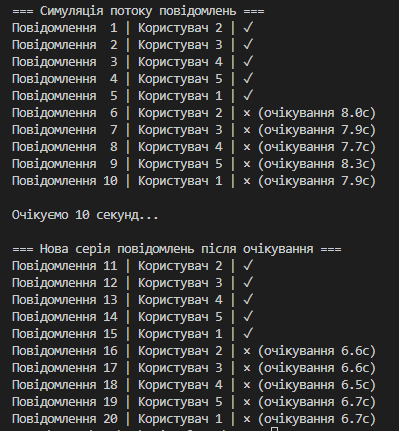
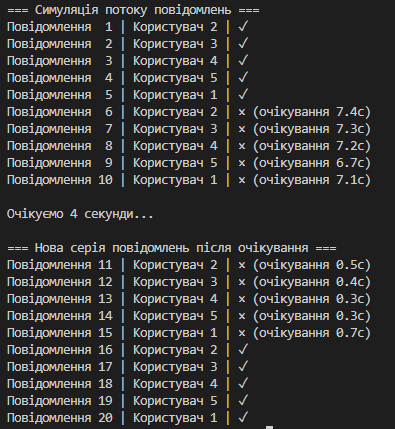
updates

Changed region(s): [[0.0, 0.5455, 0.9418, 1.0], [0.0, 0.0, 0.9418, 0.4545], [0.0, 0.4848, 0.3949, 0.5152]]

diff --git a/2_rate_limiter_throttling.py b/2_rate_limiter_throttling.py
@@ -22,8 +22,8 @@ def test_throttling_limiter():
         # Випадкова затримка між повідомленнями
         time.sleep(random.uniform(0.1, 1.0))
 
-    print("\nОчікуємо 10 секунд...")
-    time.sleep(10)
+    print("\nОчікуємо 4 секунди...")
+    time.sleep(4)
 
     print("\n=== Нова серія повідомлень після очікування ===")
     for message_id in range(11, 21):
